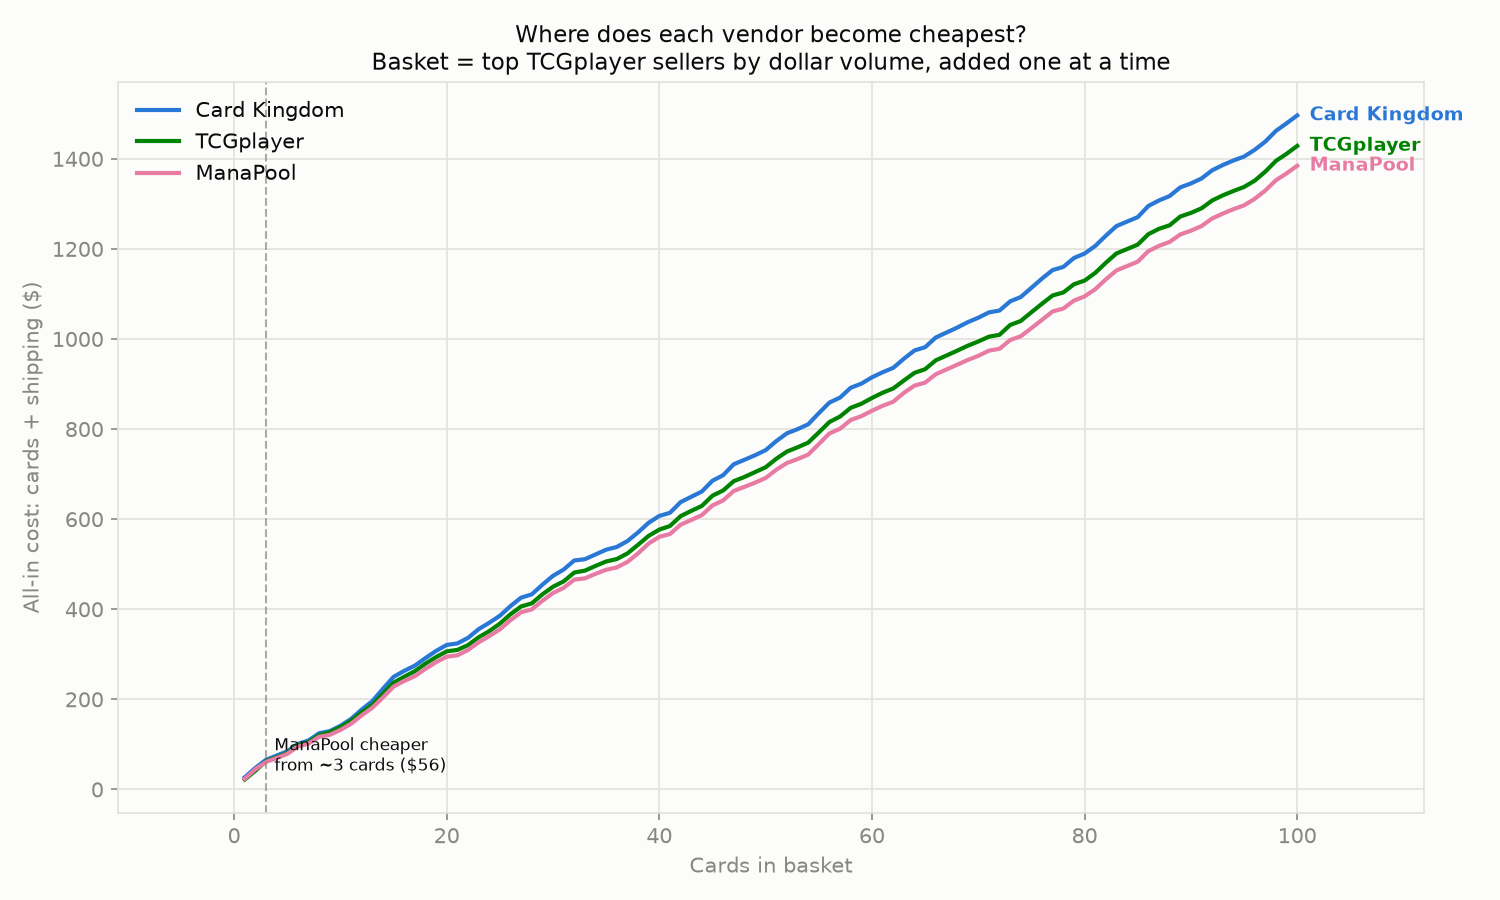
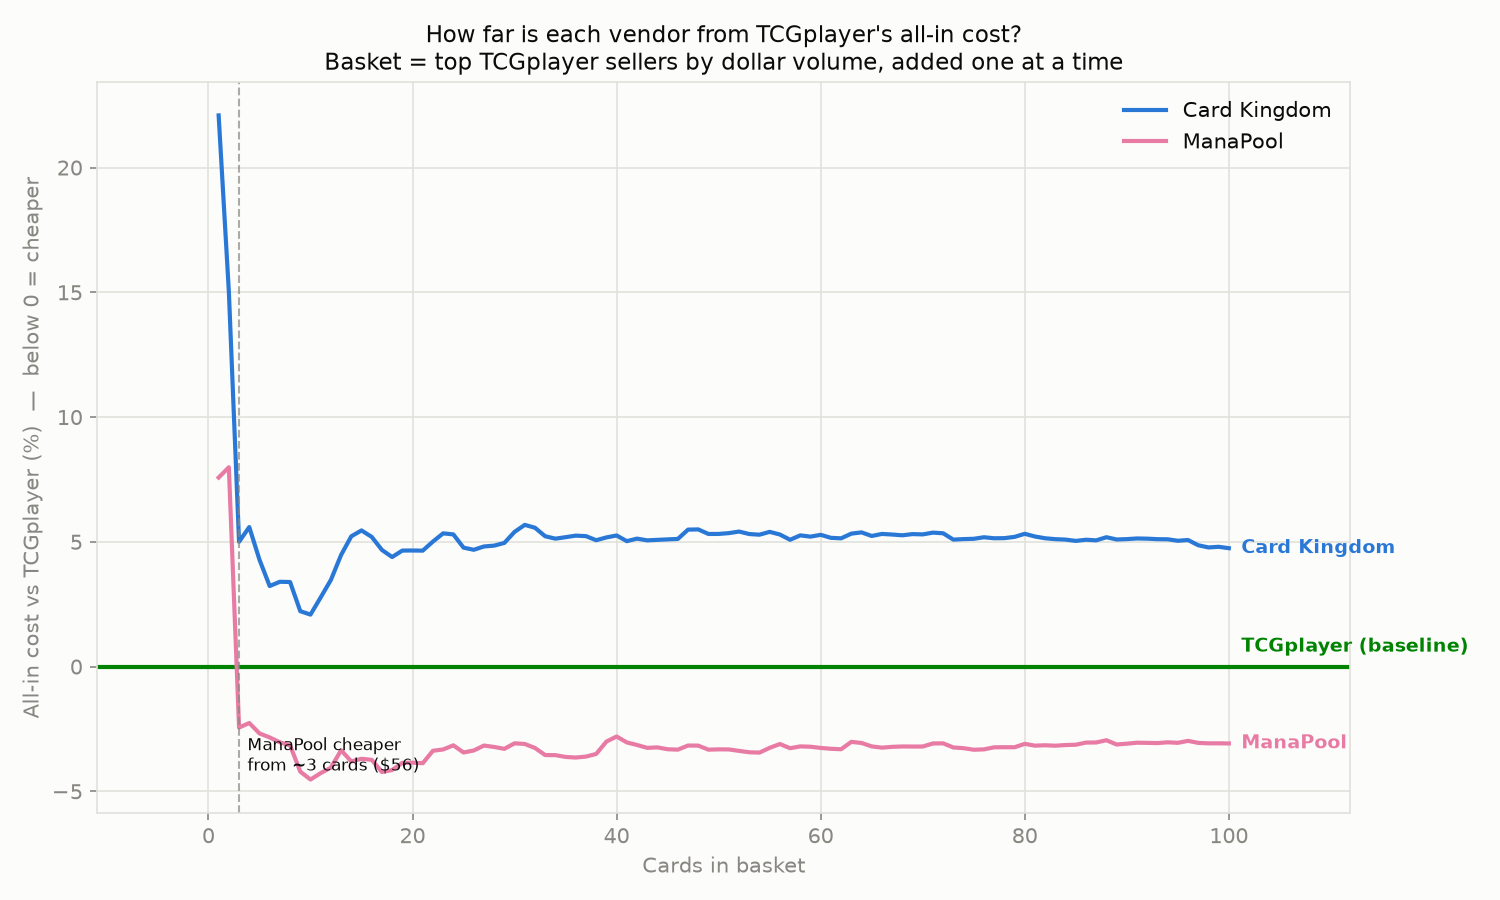
Plot cost as % difference vs TCGplayer baseline
Main and zoom charts now show each vendor's all-in cost as a percent
difference from TCGplayer (zero line = baseline, below zero = cheaper),
which makes the near-parallel absolute curves readable. The absolute-cost
view remains as crossover_by_value.png.

Claude-Session: https://claude.ai/code/session_01JfSvnLRd6xKJhXvNadj6Qu

diff --git a/mtg_pricebot/plot.py b/mtg_pricebot/plot.py
@@ -16,6 +16,62 @@ LABELS = {"cardkingdom": "Card Kingdom", "tcgplayer": "TCGplayer", "manapool": "
 SURFACE, INK, MUTED, GRID = "#fcfcfb", "#0b0b0b", "#898781", "#e1e0d9"
 
 
+def plot_pct_diff(curves: pd.DataFrame, crossovers: list[dict], out_path: Path,
+                  x_col: str = "n_cards", baseline: str = "tcgplayer") -> Path:
+    """All-in cost as % difference vs the baseline vendor (0 = baseline)."""
+    fig, ax = plt.subplots(figsize=(10, 6), dpi=150)
+    fig.patch.set_facecolor(SURFACE)
+    ax.set_facecolor(SURFACE)
+
+    x = curves[x_col]
+    base_total = curves[f"{baseline}_total"]
+    ax.axhline(0, color=COLORS[baseline], linewidth=2)
+    ax.annotate(f"{LABELS[baseline]} (baseline)", (x.iloc[-1], 0),
+                xytext=(6, 5), textcoords="offset points",
+                color=COLORS[baseline], fontsize=9, fontweight="bold", va="bottom")
+
+    for v in VENDORS:
+        if v == baseline:
+            continue
+        pct = (curves[f"{v}_total"] / base_total - 1) * 100
+        ax.plot(x, pct, color=COLORS[v], linewidth=2, label=LABELS[v])
+        ax.annotate(LABELS[v], (x.iloc[-1], pct.iloc[-1]),
+                    xytext=(6, 0), textcoords="offset points",
+                    color=COLORS[v], fontsize=9, fontweight="bold", va="center")
+
+    for ev in crossovers:
+        if ev["direction"] != "cheaper" or ev.get("baseline") != baseline:
+            continue
+        xv = ev["n_cards"] if x_col == "n_cards" else ev["order_value"]
+        ax.axvline(xv, color=MUTED, linewidth=1, linestyle="--", alpha=0.7)
+        y0, y1 = ax.get_ylim()
+        ax.annotate(f'{LABELS[ev["vendor"]]} cheaper\nfrom ~{ev["n_cards"]} cards '
+                    f'(${ev["order_value"]:,.0f})',
+                    (xv, y0 + 0.05 * (y1 - y0)),
+                    color=INK, fontsize=8, ha="left", va="bottom",
+                    xytext=(4, 0), textcoords="offset points")
+
+    xlabel = ("Cards in basket" if x_col == "n_cards"
+              else "Order value — cumulative TCGplayer subtotal ($)")
+    ax.set_xlabel(xlabel, color=MUTED)
+    ax.set_ylabel(f"All-in cost vs {LABELS[baseline]} (%)  —  below 0 = cheaper", color=MUTED)
+    ax.set_title("How far is each vendor from TCGplayer's all-in cost?\n"
+                 "Basket = top TCGplayer sellers by dollar volume, added one at a time",
+                 color=INK, fontsize=11)
+    ax.grid(True, color=GRID, linewidth=0.75)
+    ax.tick_params(colors=MUTED)
+    for spine in ax.spines.values():
+        spine.set_color(GRID)
+    ax.legend(loc="upper right", frameon=False, labelcolor=INK)
+    ax.margins(x=0.12)
+
+    fig.tight_layout()
+    out_path.parent.mkdir(parents=True, exist_ok=True)
+    fig.savefig(out_path, facecolor=SURFACE)
+    plt.close(fig)
+    return out_path
+
+
 def plot_curves(curves: pd.DataFrame, crossovers: list[dict], out_path: Path,
                 x_col: str = "order_value") -> Path:
     fig, ax = plt.subplots(figsize=(10, 6), dpi=150)

diff --git a/mtg_pricebot/cli.py b/mtg_pricebot/cli.py
@@ -66,16 +66,15 @@ def cmd_run(cfg: dict, args):
 
     curves_path = out_dir / f"basket_curves{suffix}.csv"
     curves.to_csv(curves_path, index=False)
-    chart_path = plot.plot_curves(curves, crossovers, out_dir / f"crossover_chart{suffix}.png",
-                                  x_col="n_cards")
+    chart_path = plot.plot_pct_diff(curves, crossovers,
+                                    out_dir / f"crossover_chart{suffix}.png")
     chart_v_path = plot.plot_curves(curves, crossovers,
                                     out_dir / f"crossover_by_value{suffix}.png")
     # Zoomed view of the small-basket region where shipping thresholds bite.
     zoom = curves[curves["n_cards"] <= 25]
     if len(zoom) >= 3:
         zoom_events = [ev for ev in crossovers if ev["n_cards"] <= 25]
-        plot.plot_curves(zoom, zoom_events, out_dir / f"crossover_zoom{suffix}.png",
-                         x_col="n_cards")
+        plot.plot_pct_diff(zoom, zoom_events, out_dir / f"crossover_zoom{suffix}.png")
 
     print(f"\nWrote {curves_path}\nWrote {chart_path}\nWrote {chart_v_path}\n")
     print("=== Crossovers vs TCGplayer (all-in cost) ===")

diff --git a/README.md b/README.md
@@ -32,9 +32,9 @@ Outputs land in `output/`:
 
 | File | What it is |
 |---|---|
-| `crossover_chart*.png` | The three cost curves + crossover markers (x = cards in basket) |
-| `crossover_zoom*.png` | Zoom on the first 25 cards, where shipping thresholds bite |
-| `crossover_by_value*.png` | Same curves with order value ($) on the x-axis |
+| `crossover_chart*.png` | % cost difference vs TCGplayer (0 = baseline, below = cheaper), x = cards in basket |
+| `crossover_zoom*.png` | Same % view zoomed on the first 25 cards, where shipping thresholds bite |
+| `crossover_by_value*.png` | Absolute all-in cost curves with order value ($) on the x-axis |
 | `basket_curves*.csv` | Every basket step: subtotal / shipping / total per vendor |
 | `data/top_cards.csv` | The ranked basket (from `rank` step) |
 
